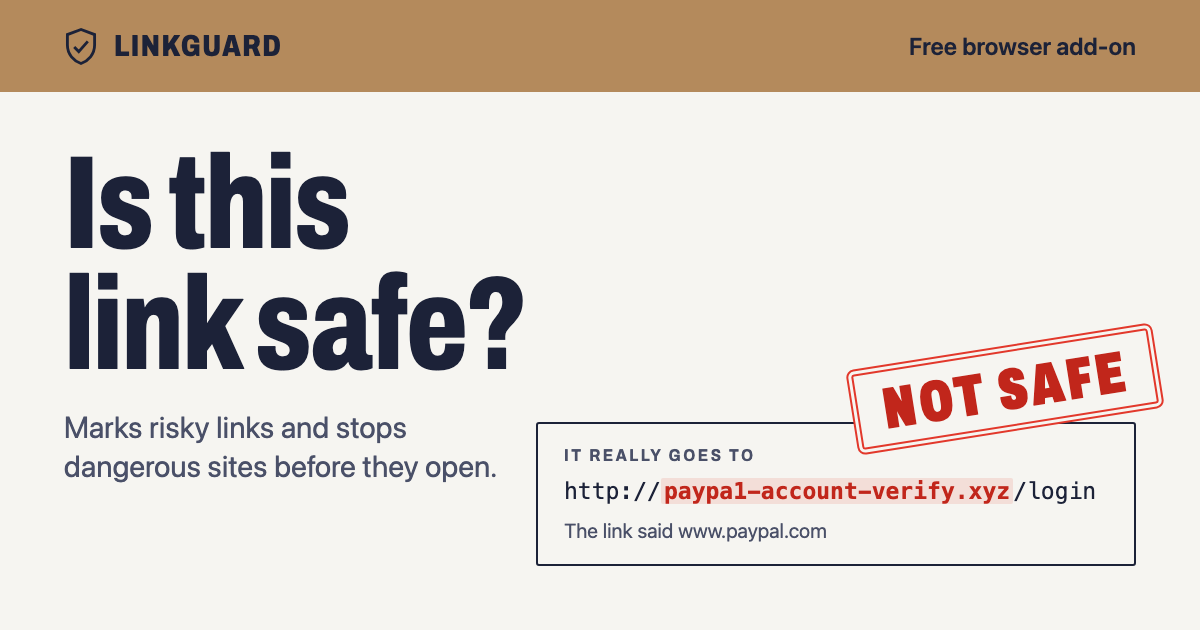
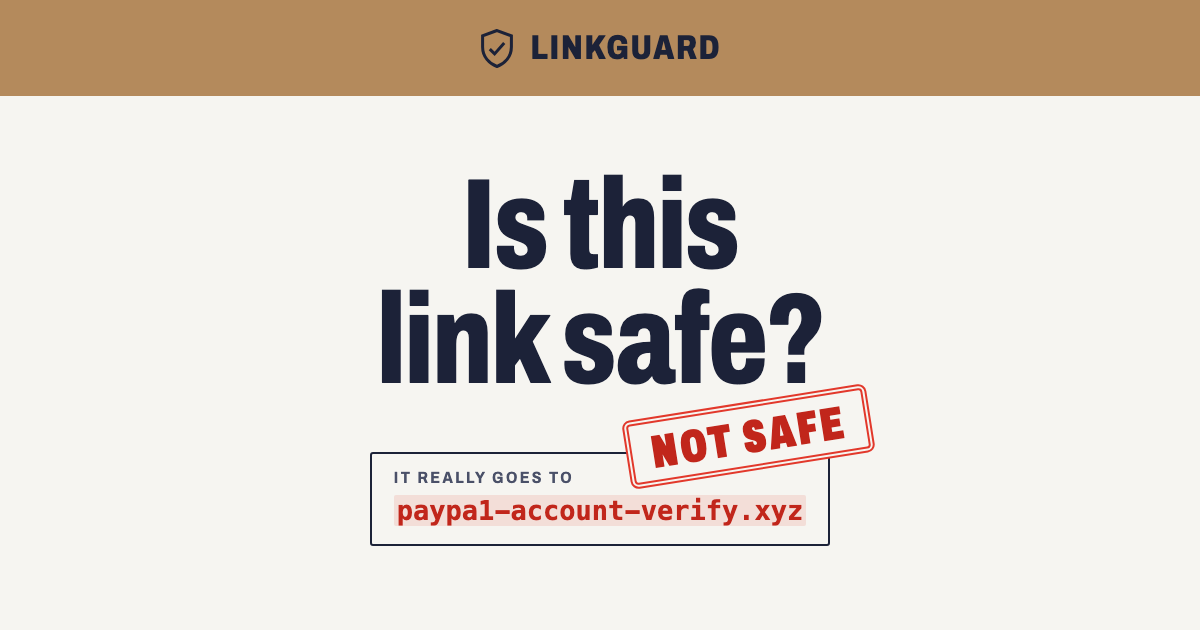
Keep the link-preview card readable when cropped square
Slack shows the preview as a square thumbnail cropped from the centre,
which cut off the headline and the stamp. Centre the logo, headline,
address and stamp inside the middle 630x630 so every crop keeps them.

diff --git a/scripts/og-image.html b/scripts/og-image.html
@@ -1,5 +1,6 @@
 <!doctype html>
-<!-- Source for docs/og-image.png, the 1200×630 card shown when the site is shared. Render with: npm run og-image -->
+<!-- Source for docs/og-image.png, the 1200×630 card shown when the site is shared. Render with: npm run og-image
+     Everything that matters sits in the centre 630×630 square: Slack and others crop the card to a square thumbnail. -->
 <html lang="en"><head><meta charset="utf-8">
 <style>
   @font-face { font-family: "LG Archivo"; src: url("../fonts/archivo-latin.woff2") format("woff2"); font-weight: 100 900; font-stretch: 62% 125%; }
@@ -14,34 +15,28 @@
   * { box-sizing: border-box; }
   html, body { margin: 0; width: 1200px; height: 630px; overflow: hidden; }
   body { background: var(--label); color: var(--ink); font-family: var(--body); display: flex; flex-direction: column; }
-  .band { height: 92px; flex: none; background: var(--kraft); color: var(--on-kraft); display: flex; align-items: center; gap: 16px; padding: 0 64px; }
-  .band svg { width: 34px; height: 39px; }
-  .band b { font: 800 30px/1 var(--display); font-stretch: 80%; letter-spacing: .05em; text-transform: uppercase; }
-  .band span { margin-left: auto; font: 600 24px/1 var(--body); }
-  main { flex: 1; padding: 52px 64px 0; position: relative; }
-  h1 { margin: 0; font: 800 132px/.92 var(--display); font-stretch: 72%; letter-spacing: -.015em; }
-  .lede { margin: 20px 0 0; font-size: 30px; line-height: 1.3; color: var(--ink-2); max-width: 24ch; text-wrap: balance; }
-  .addr { position: absolute; right: 64px; bottom: 64px; width: 600px; border: 2px solid var(--ink); border-radius: 3px; padding: 22px 26px; background: var(--label); }
-  .caps { font: 700 17px/1.2 var(--display); font-stretch: 88%; letter-spacing: .15em; text-transform: uppercase; color: var(--ink-2); }
-  .url { margin-top: 10px; font: 500 23px/1.35 var(--mono); white-space: nowrap; }
-  .said { margin-top: 12px; font-size: 20px; color: var(--ink-2); }
+  .band { height: 96px; flex: none; background: var(--kraft); color: var(--on-kraft); display: flex; align-items: center; justify-content: center; gap: 16px; }
+  .band svg { width: 36px; height: 41px; }
+  .band b { font: 800 34px/1 var(--display); font-stretch: 80%; letter-spacing: .05em; text-transform: uppercase; }
+  main { flex: 1; display: flex; flex-direction: column; align-items: center; justify-content: center; padding-bottom: 12px; }
+  h1 { margin: 0; text-align: center; font: 800 128px/.9 var(--display); font-stretch: 72%; letter-spacing: -.015em; }
+  .addr { position: relative; margin-top: 54px; border: 2px solid var(--ink); border-radius: 3px; padding: 14px 22px 16px; background: var(--label); }
+  .caps { font: 700 16px/1.2 var(--display); font-stretch: 88%; letter-spacing: .15em; text-transform: uppercase; color: var(--ink-2); }
+  .url { margin-top: 6px; font: 500 27px/1.3 var(--mono); white-space: nowrap; }
   .url mark { background: var(--stamp-wash); color: var(--stamp-text); font-weight: 700; padding: 0 3px; border-radius: 2px; }
-  .stamp { position: absolute; right: -26px; top: -78px; transform: rotate(-9deg); border: 7px double var(--stamp); color: var(--stamp-text); background: var(--label);
-    border-radius: 8px; padding: .16em .42em .08em; font: 900 58px/1 var(--display); font-stretch: 68%; letter-spacing: .06em; text-transform: uppercase; }
+  .stamp { position: absolute; right: -44px; top: -52px; transform: rotate(-9deg); border: 6px double var(--stamp); color: var(--stamp-text); background: var(--label);
+    border-radius: 8px; padding: .16em .42em .08em; font: 900 46px/1 var(--display); font-stretch: 68%; letter-spacing: .06em; text-transform: uppercase; }
 </style></head>
 <body>
   <header class="band">
     <svg viewBox="0 0 30 34" fill="none" stroke="currentColor" stroke-width="2.5" aria-hidden="true"><path d="M15 2 3 6.5v9.2C3 24 8.6 29.6 15 32c6.4-2.4 12-8 12-16.3V6.5L15 2Z"/><path d="M9 17.5l4 4 8-9"/></svg>
     <b>LinkGuard</b>
-    <span>Free browser add-on</span>
   </header>
   <main>
     <h1>Is this<br>link safe?</h1>
-    <p class="lede">Marks risky links and stops dangerous sites before they open.</p>
     <div class="addr">
       <div class="caps">It really goes to</div>
-      <div class="url">http://<mark>paypa1-account-verify.xyz</mark>/login</div>
-      <div class="said">The link said www.paypal.com</div>
+      <div class="url"><mark>paypa1-account-verify.xyz</mark></div>
       <div class="stamp">Not safe</div>
     </div>
   </main>
